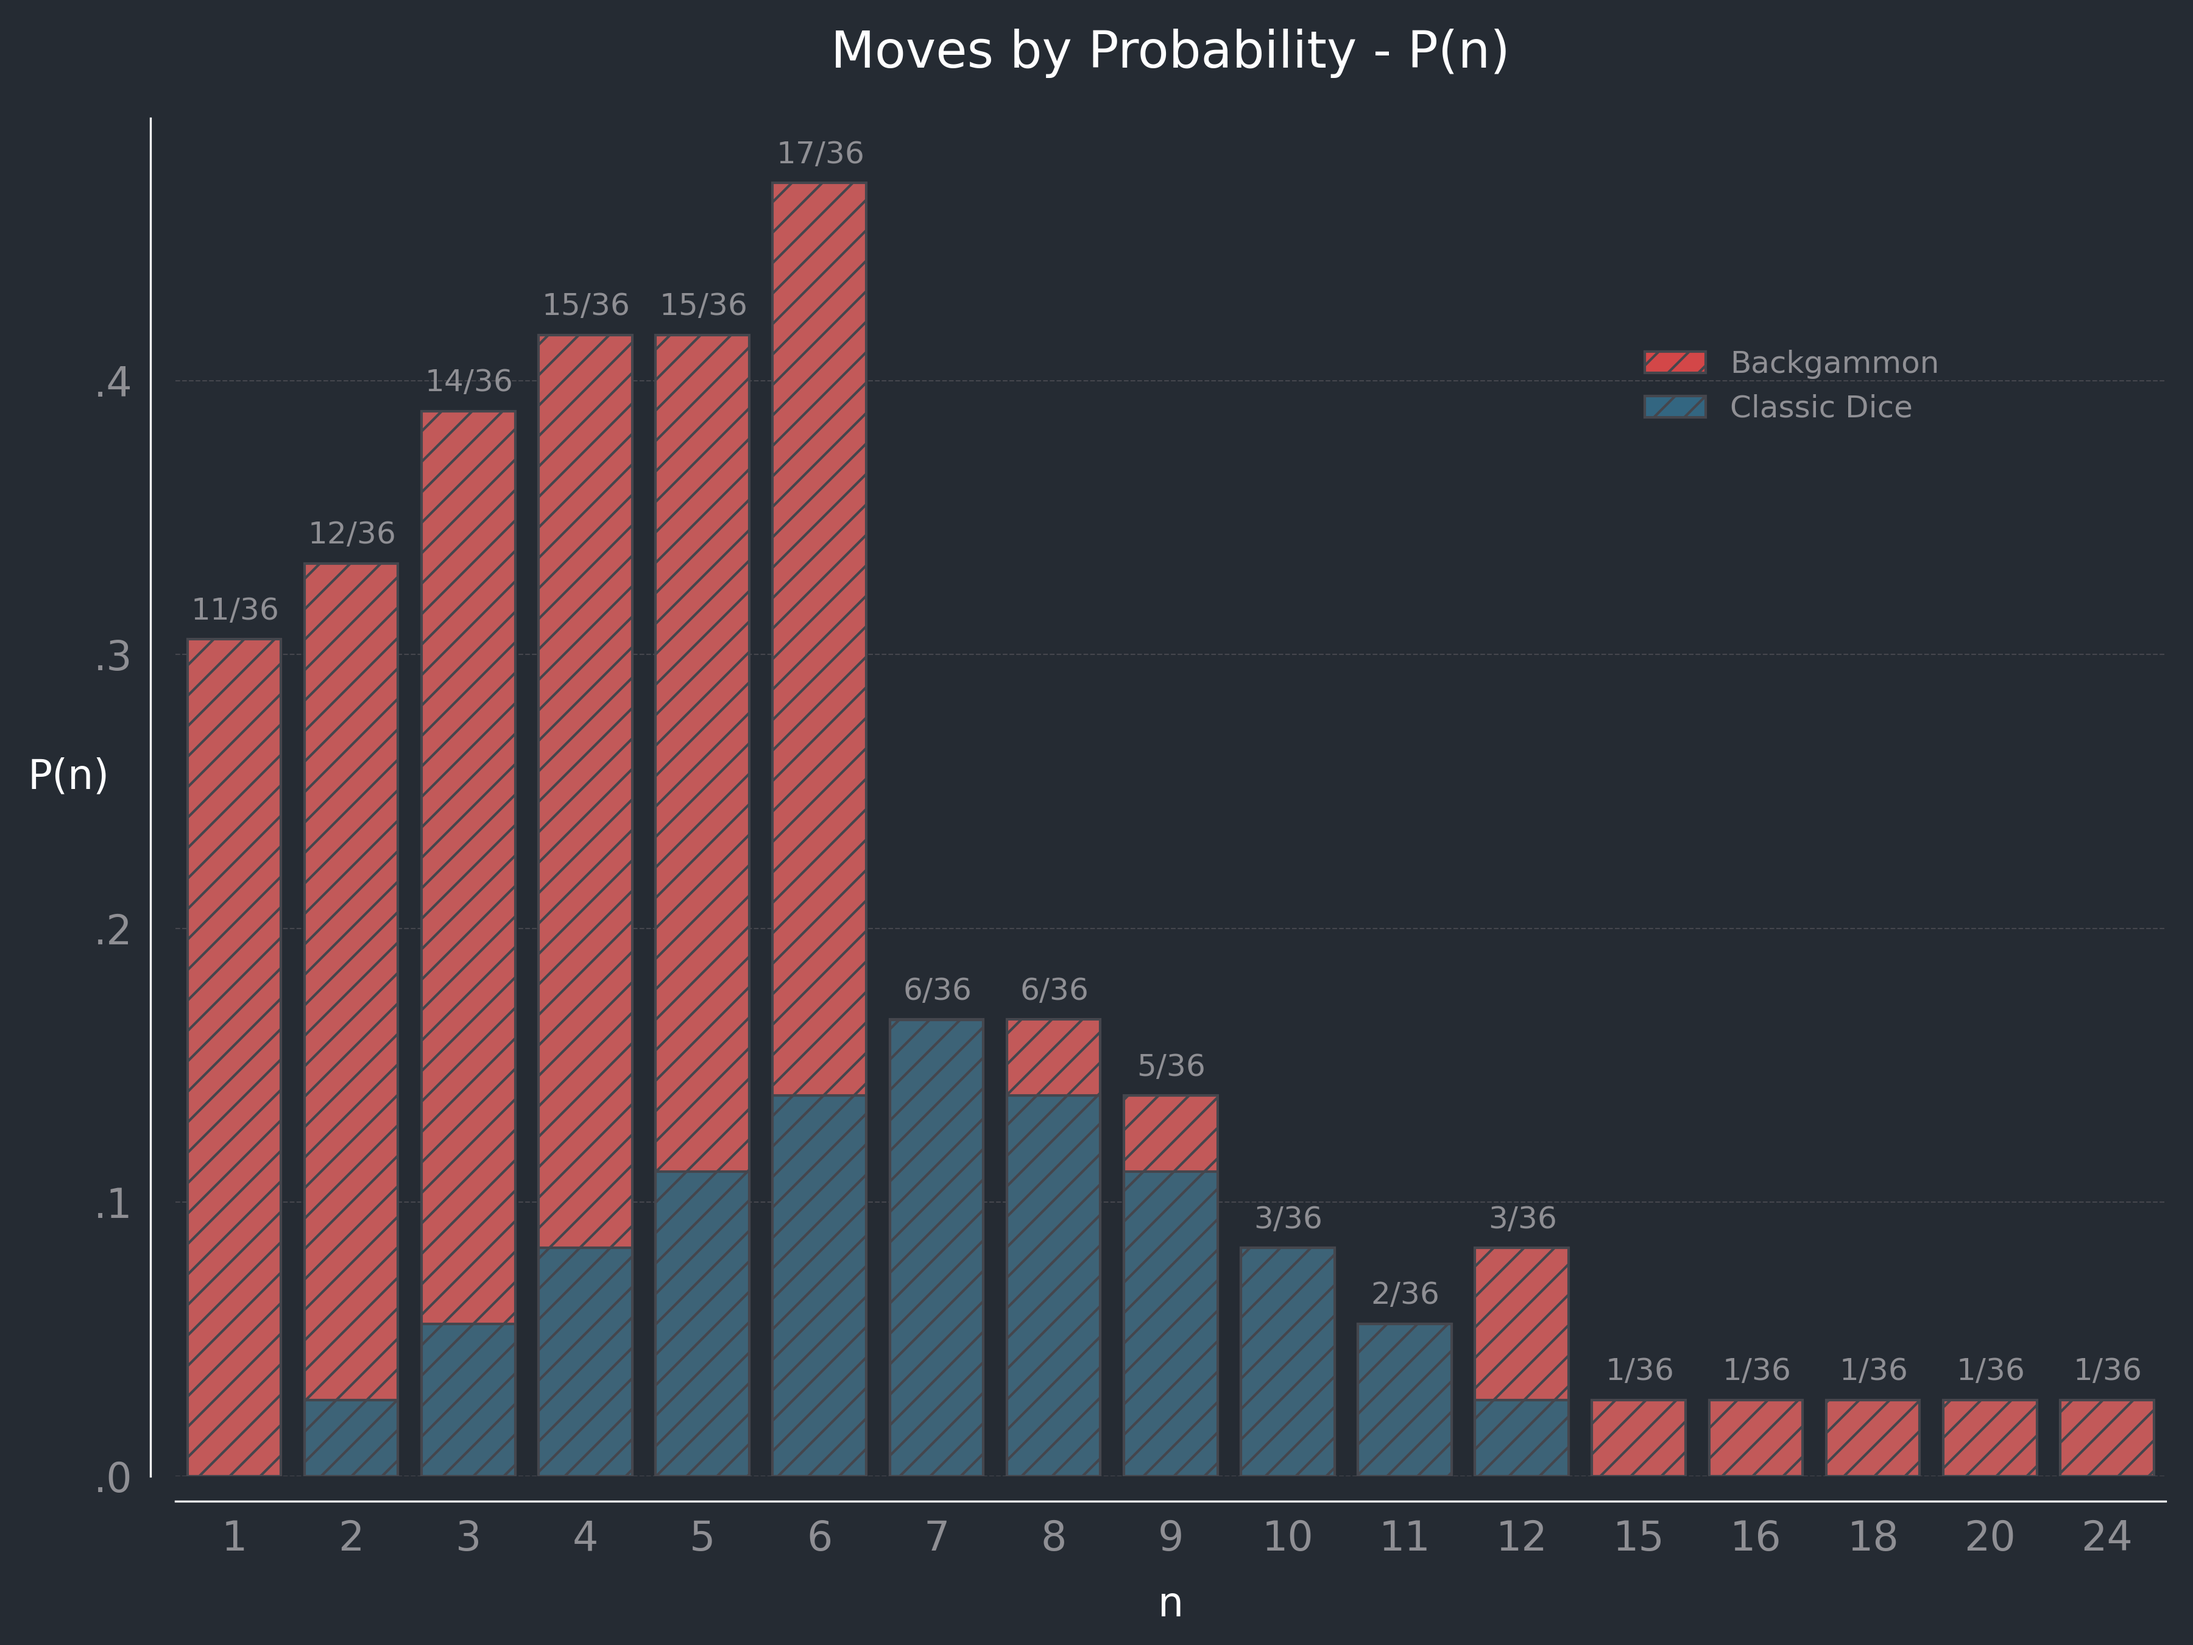
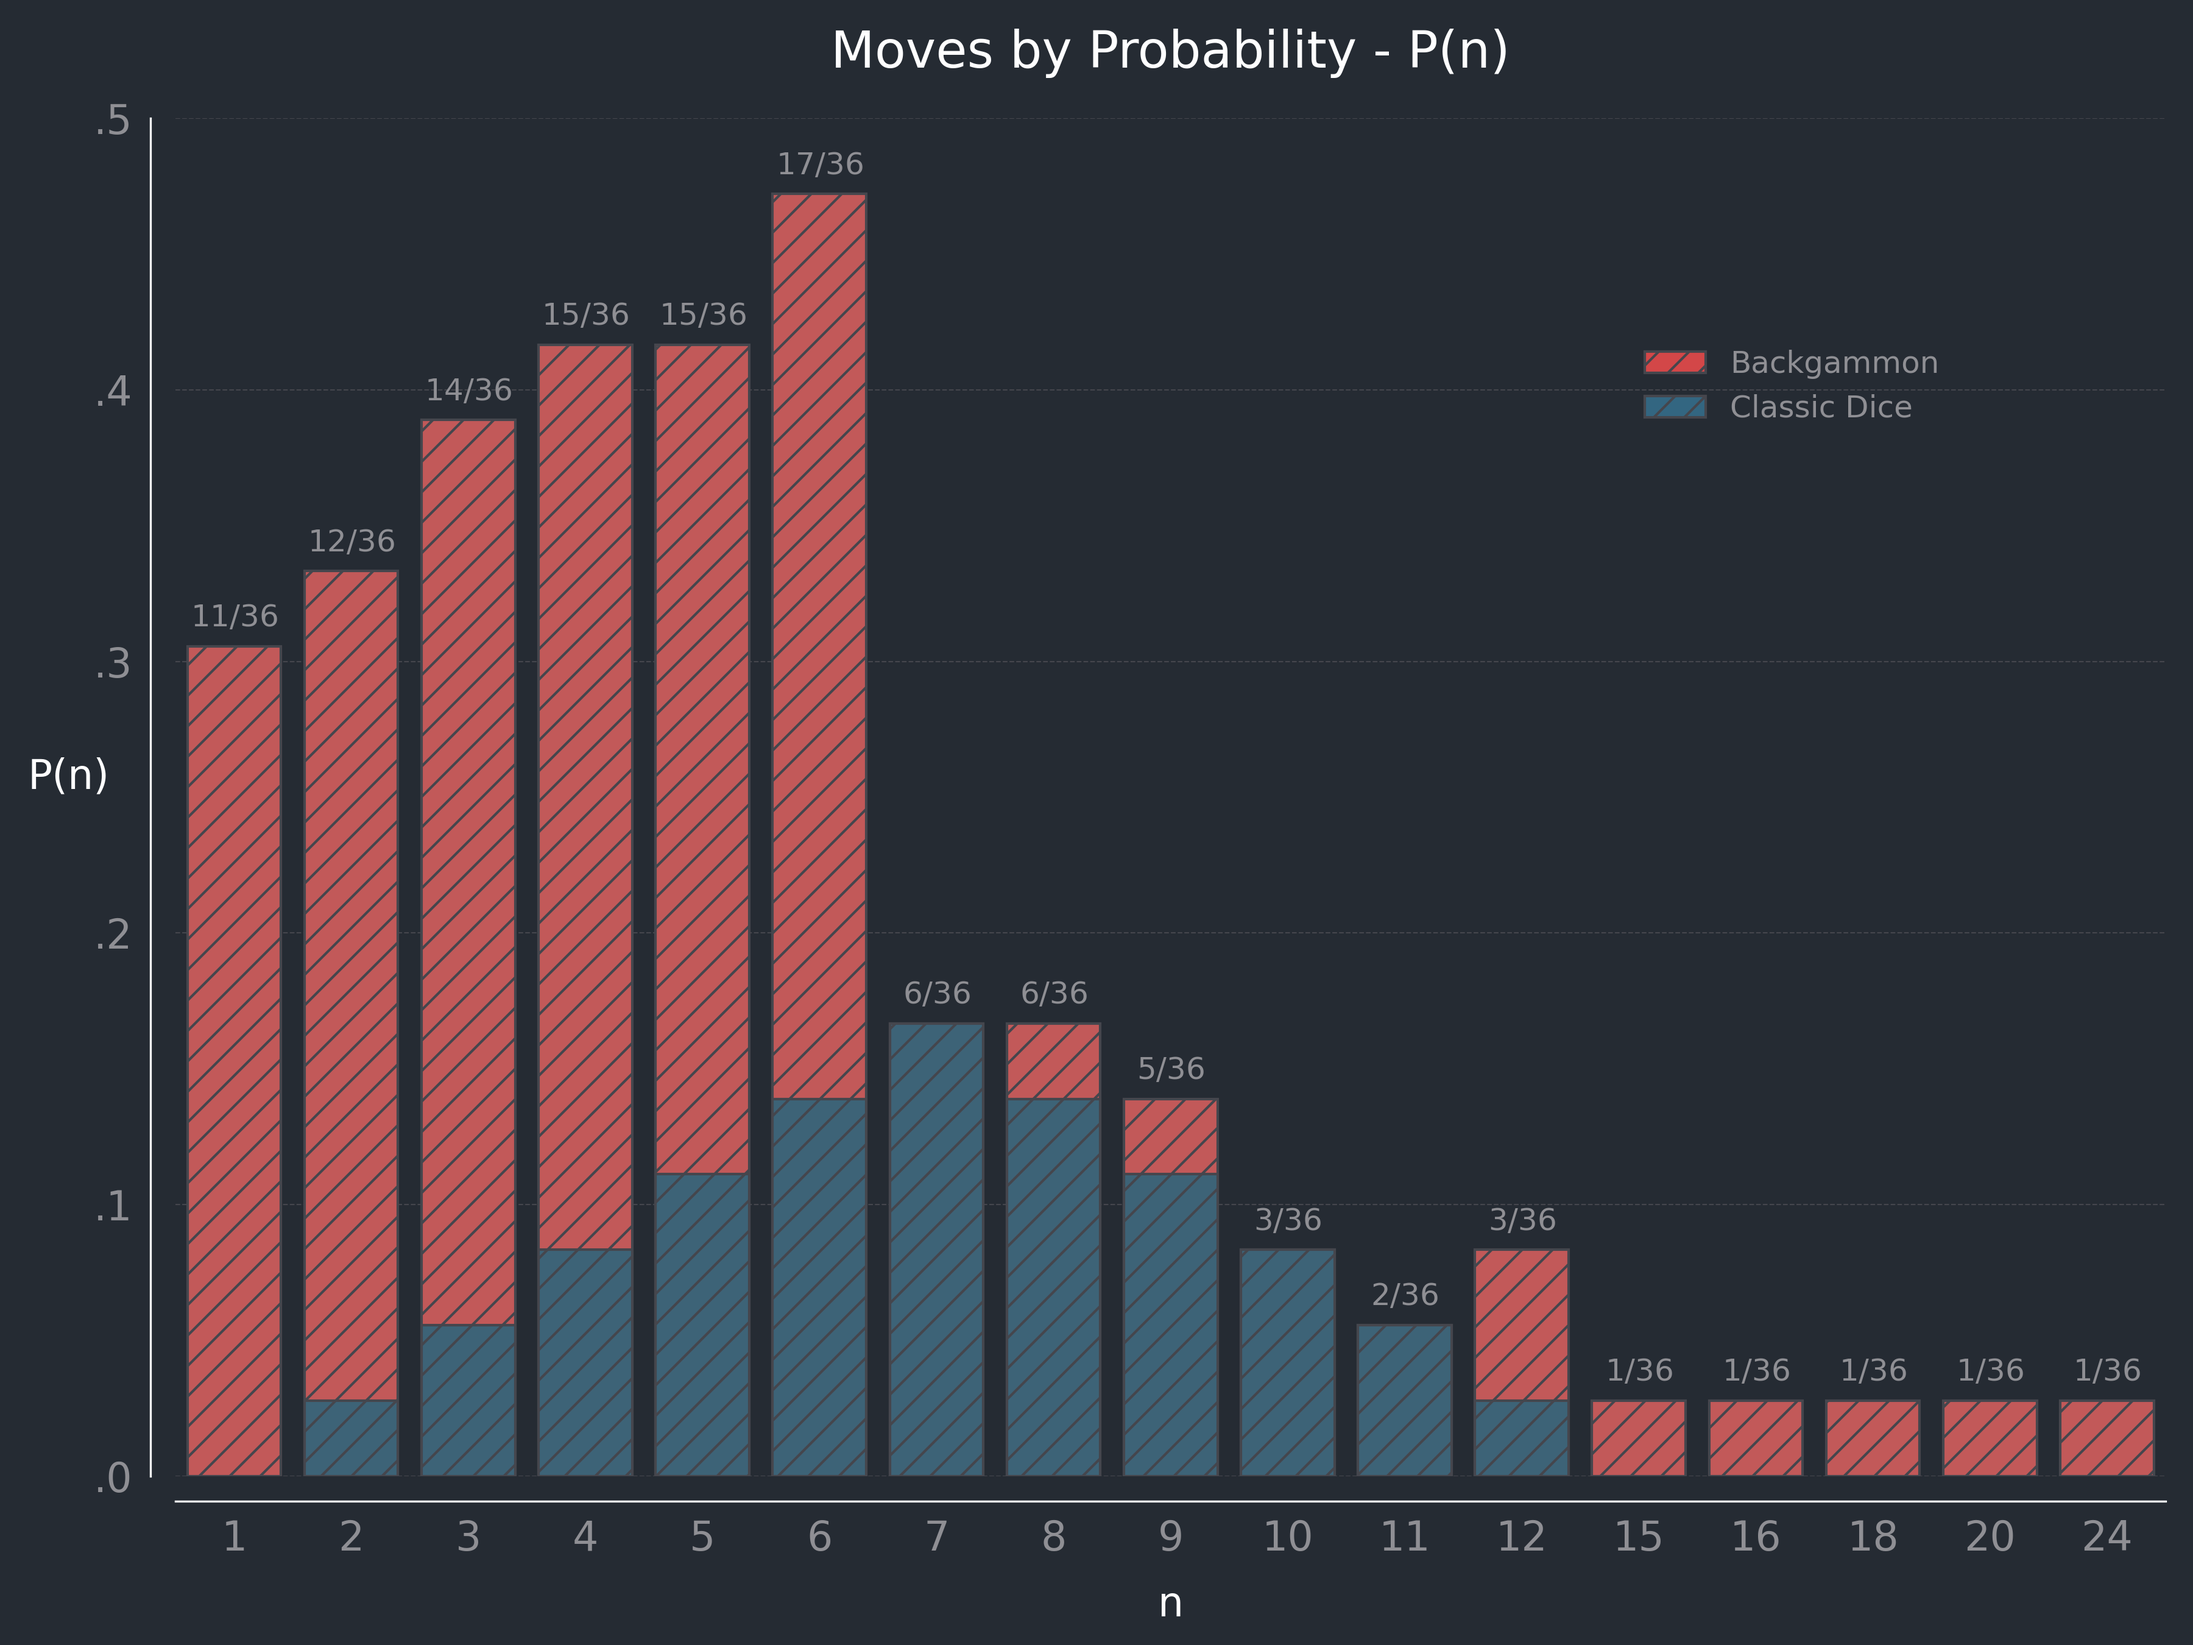
update plot y-axis labels

diff --git a/src/plots/plot_overlay_probs.py b/src/plots/plot_overlay_probs.py
@@ -62,6 +62,9 @@ ax.set_yticks([.0, .1, .2, .3, .4, .5])
 new_yticks = [label.get_text().lstrip("0") for label in ax.get_yticklabels()]
 ax.set_yticklabels(new_yticks)
 
+# Set y-axis limits
+ax.set_ylim(0, 0.5)
+
 # Show major gridlines
 ax.grid(True,
         color=palette["grey"],
